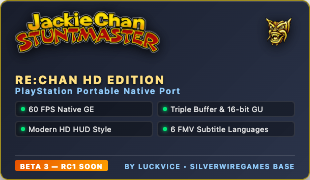
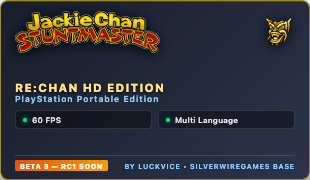
feat(psp): streamline artwork text to player features (60 FPS, Multi Language)

Changed region(s): [[0.029, 0.4167, 0.5806, 0.75], [0.5226, 0.5833, 0.9581, 0.75]]

diff --git a/psp/artwork/pic0_overlay.html b/psp/artwork/pic0_overlay.html
@@ -56,23 +56,24 @@
   .specs {
     display: grid;
     grid-template-columns: 1fr 1fr;
-    gap: 4px;
-    margin-top: 5px;
+    gap: 6px;
+    margin-top: 6px;
   }
   .spec-item {
-    background: rgba(0,0,0,0.35);
-    border: 1px solid rgba(255,255,255,0.1);
-    border-radius: 3px;
-    padding: 2.5px 5px;
-    font-size: 7.5px;
+    background: rgba(0,0,0,0.4);
+    border: 1px solid rgba(255,255,255,0.12);
+    border-radius: 4px;
+    padding: 3.5px 7px;
+    font-size: 8px;
+    font-weight: 600;
     color: #E0E0E0;
     display: flex;
     align-items: center;
-    gap: 4px;
+    gap: 5px;
   }
   .spec-dot {
-    width: 3.5px;
-    height: 3.5px;
+    width: 4px;
+    height: 4px;
     border-radius: 50%;
     background: #00E676;
     box-shadow: 0 0 4px #00E676;
@@ -109,12 +110,10 @@
     </div>
     <div>
       <div class="info-title">RE:Chan HD Edition</div>
-      <div class="subtitle">PlayStation Portable Native Port</div>
+      <div class="subtitle">PlayStation Portable Edition</div>
       <div class="specs">
-        <div class="spec-item"><span class="spec-dot"></span>60 FPS Native GE</div>
-        <div class="spec-item"><span class="spec-dot"></span>Triple Buffer & 16-bit GU</div>
-        <div class="spec-item"><span class="spec-dot"></span>Modern HD HUD Style</div>
-        <div class="spec-item"><span class="spec-dot"></span>6 FMV Subtitle Languages</div>
+        <div class="spec-item"><span class="spec-dot"></span>60 FPS</div>
+        <div class="spec-item"><span class="spec-dot"></span>Multi Language</div>
       </div>
     </div>
     <div class="footer">

diff --git a/psp/artwork/preview.html b/psp/artwork/preview.html
@@ -186,7 +186,7 @@
   <div class="subhead">Artwork Oficial para EBOOT.PBP do PlayStation Portable</div>
   <div class="badges">
     <span class="pill pill-beta">BETA 3 — RC1 EM BREVE</span>
-    <span class="pill pill-author">BY LUCKPVICE</span>
+    <span class="pill pill-author">BY LUCKVICE</span>
   </div>
 </header>
 
@@ -195,7 +195,7 @@
     <img class="psp-screen-bg" src="../PIC1.PNG" alt="PSP Background">
     <img class="psp-xmb-icon" src="../ICON0.PNG" alt="PSP Cover Icon">
     <div class="psp-title-bar">Re:Chan HD Edition Beta 3</div>
-    <div class="psp-sub-bar">Jackie Chan Stuntmaster • 60 FPS Native</div>
+    <div class="psp-sub-bar">Jackie Chan Stuntmaster • 60 FPS • Multi Language</div>
   </div>
 </div>
 
@@ -227,7 +227,7 @@
     <div class="img-frame">
       <img src="../PIC0.PNG" style="width: 310px; height: 180px;" alt="PIC0.PNG">
     </div>
-    <div class="info-tag">Painel com especificações técnicas (60 FPS, 16-bit GU, HD HUD, 6 Idiomas).</div>
+    <div class="info-tag">Painel de informações com as features da edição (60 FPS, Multi Language).</div>
   </div>
 
   <!-- Video Demo 15s -->

diff --git a/psp/artwork/pic1_background.html b/psp/artwork/pic1_background.html
@@ -140,7 +140,7 @@
 
   <div class="bottom-decor">
     <img class="dragon-icon" src="../../res/pc/textures/collectibles/gold_dragon.png" alt="Dragon">
-    <div class="features-strip">NATIVE 60 FPS • 16-BIT GU • HD HUD</div>
+    <div class="features-strip">60 FPS • MULTI LANGUAGE</div>
   </div>
 </body>
 </html>
